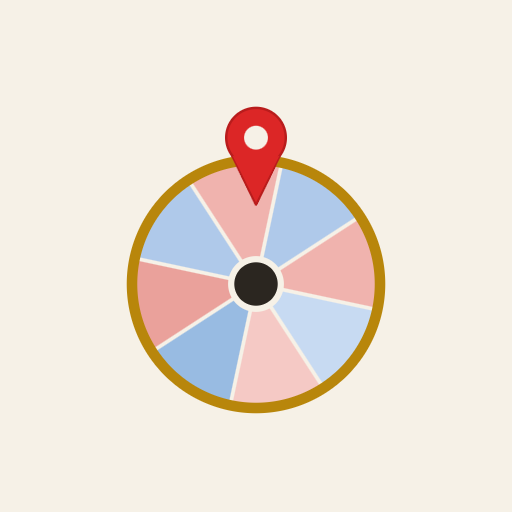
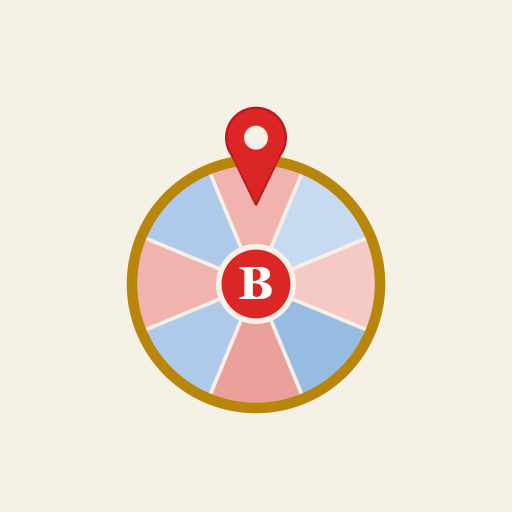
앱 아이콘을 'B' 디자인으로 교체
- 핀이 빨간(활기 여행) 칸 한가운데를 정확히 가리키도록 룰렛판 방향을 맞춤
- 가운데 축을 빨간 원으로 바꾸고 흰색 세리프체 'B'를 넣음
- 서비스워커 캐시를 v5로 올려 예전 아이콘을 받은 폰도 교체

Changed region(s): [[0.2812, 0.3125, 0.75, 0.8125]]

diff --git a/sw.js b/sw.js
@@ -6,8 +6,8 @@
 // 계속 보이는 버그가 있었다 (앱 재설치로도 안 고쳐짐 - 저장공간을 공유하기 때문).
 // v2부터는: 문서(HTML)는 항상 "네트워크 우선"으로 최신 버전을 먼저 시도하고,
 // 오프라인일 때만 캐시로 대체한다. 아이콘/매니페스트 같은 정적 자산만 캐시 우선을 유지.
-// v4 (2026-10-04): 앱 아이콘을 새 디자인(그림자 없는 룰렛 + 빨간 핀)으로 바꿔서, 폰에 저장돼 있던 예전 아이콘을 버리도록 버전을 올림
-const CACHE_NAME = "baram-cache-v4";
+// v5 (2026-10-04): 앱 아이콘을 새 디자인(룰렛 + 빨간 칸을 가리키는 핀 + 가운데 빨간 원에 흰 B)으로 바꿔서, 폰에 저장돼 있던 예전 아이콘을 버리도록 버전을 올림
+const CACHE_NAME = "baram-cache-v5";
 const CORE_ASSETS = ["/", "/index.html", "/manifest.json", "/icon-192.png", "/icon-512.png", "/icon-maskable-192.png", "/icon-maskable-512.png"];
 
 self.addEventListener("install", (event) => {
